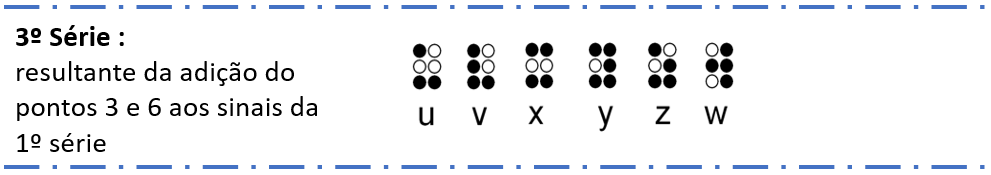
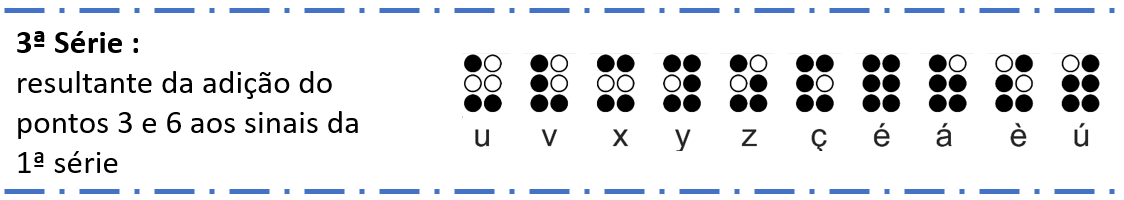
mudanças no texto do padrão braille e sistema e mudança do botão recuperar senha

diff --git a/menuBraille.html b/menuBraille.html
@@ -3,18 +3,15 @@
 <head>
     <meta charset="UTF-8">
     <meta name="viewport" content="width=device-width, initial-scale=1.0">
-    <meta name="description" content="Página explicativa do conteudo Braille">
-    <link rel="stylesheet" href="../css/index.css"> <!-- Estilo padrão das páginas -->
-    <meta name="Descrição" content="Página Inicial do sistema braile, Introdução ">
-    <link id="css" href="../../css/braille-big.css" rel="stylesheet"> <!-- faz parte da biblioteca Braille -->
-    <script src="../../js/braille-tools.js"></script> <!-- faz parte da biblioteca Braille -->
-    <link rel="icon" type="image/png" href="../css/icon.png"> <!-- Icone da página -->
-    <link rel="stylesheet" href="https://cdn.jsdelivr.net/npm/bootstrap-icons@1.11.3/font/bootstrap-icons.min.css"> 
-
-    <title>Braille</title>
+    <link rel="stylesheet" href="./css/index.css"> <!-- Estilo padrão das páginas -->
+    <meta name="Descrição" content="Menu com os exercicios e uma opção para revisar o contéudo dos padrões braille">
+    <link rel="icon" type="image/png" href="./css/icon.png"> <!-- Icone da página -->
+    <link rel="stylesheet" href="https://cdn.jsdelivr.net/npm/bootstrap-icons@1.11.3/font/bootstrap-icons.min.css">
+    <title>Menu Braille</title>
 </head>
 
 <body>
+
     <nav class="menu-lateral">
 
         <div class="btn-expandir" > 
@@ -26,7 +23,7 @@
         <ul class="lateral">
             <li class="item-menu" id="user-div">
                 <a>
-                    <span class="icon"><img src="../css/icon.png" style="padding-left: 5px;" ></span>
+                    <span class="icon"><img src="./css/icon.png" style="padding-left: 5px;" ></span>
                     <h4 class="txt-link"></h4>
                 </a>
             </li>
@@ -41,31 +38,31 @@
             
             
             <li class="item-menu">
-                <a href="../Exercicios.html">
+                <a href="./Exercicios.html">
                     <span class="icon"><i class="bi bi-list-ol"></i></span>
                     <span class="txt-link">Exercícios</span>
                 </a>
             </li>  
             <li class="item-menu">
-                <a href="../Traducao/Traducao.html">
+                <a href="./Traducao/Traducao.html">
                     <span class="icon"><i class="bi bi-translate"></i></span>
                     <span class="txt-link">Tradução</span>
                 </a>
             </li>
             <li class="item-menu">
-                <a href="../Estudar/Estudar.html">
+                <a href="./Estudar/Estudar.html">
                     <span class="icon"><i class="bi bi-easel-fill"></i></span>
                     <span class="txt-link">Estudar</span>
                 </a>
             </li>
             <li class="item-menu">
-                <a href="../feedback.html">
+                <a href="./feedback.html">
                     <span class="icon"><i class="bi bi-star-fill"></i></span>
                     <span class="txt-link">Feedback</span>
                 </a>
             </li>
             <li class="item-menu">
-                <a onclick="logout()" href="../../index.html">
+                <a onclick="logout()" href="../index.html">
                     <span class="icon"><i class="bi bi-box-arrow-left"></i>
                     </span>
                     <span class="txt-link">Sair</span>
@@ -76,24 +73,35 @@
     </nav>
 
     <div class="container">
+        <h1>Braille</h1>
 
-        <div style="margin-bottom: 20px;" > <h2 >Sistema Braille</h2> </div>
+        <div class="containermenu">
+            <div class="coluna">
+                <a class="botaomenu" href="./SistemaBraille/sistemaBraille.html">
+                    <img class="imagem" src="./css/braille1.png">
+                    Sistema Braille
+                </a>
+                <a class="botaomenu" href="./SistemaBraille/sistemaBraille3.html">
+                    <img class="imagem" src="./css/padraobraille.png">
+                    Padrão Braille 
+                </a>
+                <a class="botaomenu" href="./SistemaBraille/acentosSinaisPontuacoes.html">
+                    <img class="imagem" src="./css/acentosesinais.png">
+                    Acentos, sinais e pontuações
+                </a>
+            </div>
 
-        <p style="text-align: left;"> O sistema braille foi inventado na França por Louis Braille, um jovem cego,
-             reconhecendo-se o ano 1825 como o marco dessa importante conquista para a educação e a integração dos deficientes visuais na sociedade.
-             O sistema de escrita em relevo é composto por 63 sinais formados a partir do conjunto matricial da figura abaixo. Este conjunto de seis pontos chama-se, sinal fundamental.</p>
 
-        <img style="height: 200px;" src="../css/matriz braille.png" alt="Matriz Braille">
-        <p style="font-size: 18px; text-align: center; margin-bottom: 30px;" >Matriz Braille</p>
-
-
-       <a href="./sistemaBraille2.html" class="form-btn2" >Avançar</a>
+            </div>
+        </div>
+        
     </div>
+
 </body>
 
 <script src="https://www.gstatic.com/firebasejs/10.0.0/firebase-app-compat.js"></script> <!-- Biblioteca Firebase -->
 <script src="https://www.gstatic.com/firebasejs/10.0.0/firebase-auth-compat.js"></script><!-- Biblioteca de autenticação Firebase -->
-<script src="../js/firebase.js"> </script> <!-- Script iniciando o Firebase -->
-<script src="../js/login.js"> </script> <!-- Script com as funções de Login -->
+<script src="./js/firebase.js"> </script> <!-- Script iniciando o Firebase -->
+<script src="./js/"> </script> <!-- Script com as funções de Login -->
 
 </html>

diff --git a/SistemaBraille/sistemaBraille2.html b/SistemaBraille/sistemaBraille2.html
@@ -33,7 +33,7 @@
 
 
             <li class="item-menu">
-                <a href="../SistemaBraille/sistemaBraille.html">
+                <a href="../menuBraille.html">
                     <span class="icon"><i class="bi bi-book-fill"></i></span>
                     <span class="txt-link">Braille</span>
                 </a>
@@ -79,28 +79,51 @@
 
         <div style="margin-bottom: 20px;" > <h2>Sistema Braille</h2> </div>
 
-        <p style="text-align: left; margin-bottom: 15px;">O Braille possui formação de letras e números, de forma que a combinação única dos pontos representam caracteres diferentes, sendo assim, possui as seguintes regras de disposição dos sinais: </p>   
+        <p style="text-align: left; margin-bottom: 15px;">O Braille possui formação de letras e números, de forma que a combinação única dos pontos representam caracteres diferentes, 
+            sendo assim, possui as seguintes regras de disposição dos sinais: </p>   
        
         <ul style="margin-bottom: 30px; text-align: left;" > 
             <li class="txt-braille">
-                A 1ª série chamada de série superior, faz o uso dos 4 pontos superiores da cela, 1245, que forma as letras de  A até J;
+                A 1ª série chamada de série superior, faz o uso dos 4 pontos superiores da cela, 1245, que forma as letras de A até J.
             <img src="../css/1-SerieSuperior.png" alt="Sinais Básicos do Sistema Braille">
             </li>
 
             <li class="txt-braille">  
-                A 2ª série conta com a adição do ponto 3 a cada um dos sinais da primeira série, então, é feito o uso da mesma sequência de pontos das letras citadas anteriormente, porém, adicionando o ponto 3 para representar as 10 próximas letras de K até L;
+                A 2ª série conta com a adição do ponto 3 a cada um dos sinais da primeira série, então, é feito o uso da mesma sequência de pontos das letras citadas anteriormente,
+                 porém, adicionando o ponto 3 para representar as 10 próximas letras de K até L.
             <img src="../css/2-Serie.png" alt="Sinais Básicos do Sistema Braille">
             </li>
 
             <li class="txt-braille">
-            A 3ª série,  complementando a 1ª série os pontos 3 e 6 geram as letras de U até Z , entretanto, a letra W não existia na Língua Francesa na época, foi adicionada posteriormente;
+                A 3ª série, complementando a 1ª série os pontos 3 e 6 geram as letras de U até Z.
             <img src="../css/3-serie.png" alt="Sinais Básicos do Sistema Braille">
+            </li>
+
+            <li class="txt-braille">
+                A 4ª série obtém-se juntando o ponto 6 a cada um dos sinais da 1ª série.
+            <img src="../css/4-serie.png" alt="Sinais Básicos do Sistema Braille">
+            </li>
+
+            <li class="txt-braille">
+                A 5ª série é toda formada por sinais inferiores, razão pela qual é denominada série inferior, e reproduz formalmente a 1ª série.
+            <img src="../css/5-serie.png" alt="Sinais Básicos do Sistema Braille">
             </li>
             
             <li class="txt-braille">
-             O sistema utiliza a noção de caracteres de escape, em que os códigos mudam de sentido quando precedidos por outros, como é o caso dos números de 1, 2, ..., 8, 9 e 0 que utilizam a mesma sequência de pontos da 1ª série, mas associado com o símbolo de numeral em Braille  , como mostrado abaixo.
-             <img src="../css/Numeral.png" alt="Sinais Básicos do Sistema Braille">
+                A 6ª série não deriva da 1ª, é formada pelos pontos 3, 4, 5, 6, e consta apenas de seis sinais.
+            <img src="../css/6-serie.png" alt="Sinais Básicos do Sistema Braille">
             </li>
+
+            <li class="txt-braille">
+                A 7ª série, também não se baseia na 1ª, é formada unicamente pelos sete sinais da coluna direita. A sua ordem de sucessão determina-se com o auxílio da mnemônica "ablakba"
+            <img src="../css/7-serie.png" alt="Sinais Básicos do Sistema Braille">
+            </li>
+
+            <li class="txt-braille">
+                Por último temos os numerais.
+            <img src="../css/Numeral.png" alt="Sinais Básicos do Sistema Braille">
+            </li>
+
             
         </ul>
 

diff --git a/SistemaBraille/acentosSinaisPontuacoes.html b/SistemaBraille/acentosSinaisPontuacoes.html
@@ -1,20 +1,20 @@
 <!DOCTYPE html>
 <html lang="pt">
+
 <head>
     <meta charset="UTF-8">
     <meta name="viewport" content="width=device-width, initial-scale=1.0">
-    <meta name="description" content="Página explicativa do conteudo Braille">
+    <meta name="description" content="Página explicativa dos padrões Braille">
     <link rel="stylesheet" href="../css/index.css"> <!-- Estilo padrão das páginas -->
-    <meta name="Descrição" content="Página Inicial do sistema braile, Introdução ">
     <link id="css" href="../../css/braille-big.css" rel="stylesheet"> <!-- faz parte da biblioteca Braille -->
     <script src="../../js/braille-tools.js"></script> <!-- faz parte da biblioteca Braille -->
     <link rel="icon" type="image/png" href="../css/icon.png"> <!-- Icone da página -->
     <link rel="stylesheet" href="https://cdn.jsdelivr.net/npm/bootstrap-icons@1.11.3/font/bootstrap-icons.min.css"> 
-
-    <title>Braille</title>
+    <title>Acentos, sinais e pontuações</title>
 </head>
 
 <body>
+
     <nav class="menu-lateral">
 
         <div class="btn-expandir" > 
@@ -77,18 +77,22 @@
 
     <div class="container">
 
-        <div style="margin-bottom: 20px;" > <h2 >Sistema Braille</h2> </div>
+        <div style="margin-bottom: 20px;" > <h2>Acentos, sinais e pontuações</h2> </div>
+        <ul style="margin-bottom: 30px; text-align: left;" > 
 
-        <p style="text-align: left;"> O sistema braille foi inventado na França por Louis Braille, um jovem cego,
-             reconhecendo-se o ano 1825 como o marco dessa importante conquista para a educação e a integração dos deficientes visuais na sociedade.
-             O sistema de escrita em relevo é composto por 63 sinais formados a partir do conjunto matricial da figura abaixo. Este conjunto de seis pontos chama-se, sinal fundamental.</p>
+            <img src="../css/acentos_sinais_e_pontuacoes.png" alt="imagem ">
+            </li>
 
-        <img style="height: 200px;" src="../css/matriz braille.png" alt="Matriz Braille">
-        <p style="font-size: 18px; text-align: center; margin-bottom: 30px;" >Matriz Braille</p>
+        
+            
+        </ul>
 
-
-       <a href="./sistemaBraille2.html" class="form-btn2" >Avançar</a>
+        <a class="form-btn2" href="../SistemaBraille/sistemaBraille3.html" >Voltar</a>
+        <a href="../padrao1/padrao1.html" class="form-btn2" >Exercício</a>
+       
     </div>
+
+
 </body>
 
 <script src="https://www.gstatic.com/firebasejs/10.0.0/firebase-app-compat.js"></script> <!-- Biblioteca Firebase -->

diff --git a/SistemaBraille/sistemaBraille3.html b/SistemaBraille/sistemaBraille3.html
@@ -33,7 +33,7 @@
 
 
             <li class="item-menu">
-                <a href="../SistemaBraille/sistemaBraille.html">
+                <a href="../menuBraille.html">
                     <span class="icon"><i class="bi bi-book-fill"></i></span>
                     <span class="txt-link">Braille</span>
                 </a>
@@ -86,7 +86,7 @@
 
         <ul style="margin-bottom: 30px; text-align: left;" > 
             <li class="txt-braille">
-              No 1º padrão temos letras que estão agrupadas devido à sua semelhança de espelhamento ao longo do eixo y, das quais temos D F, E I, H J, R W, e Y Ç.
+                No 1º padrão as letras estão agrupadas devido à sua semelhança de espelhamento no eixo y, que são: D F, E I, H J, R W, e Y Ç.
             <img src="../css/1padrao.png" alt="imagem ilustrando o padrão 1: Similaridade de caracteres por espelhamento no eixo y, D F, E I, H J, R W, e Y Ç.">
             </li>
 
@@ -100,12 +100,18 @@
                 cada caractere complementa e ajuda a lembrar do próximo.
             <img src="../css/3padrao.png" alt="imagem ilustrando o padrão 3: Similaridade de caracteres por complementaridade: A B K L, C G X, e, O S T Q.">
             </li>
+
+            <li class="txt-braille">
+                O Numeral segue a mesma lógica de organização do padrão 1, com os números organizados por possuírem similaridade de espelhamento no eixo 𝑦, 
+                tendo os números 1, 2, 3, 4, 5, 6, 7, 8, 9 e 0. Cada número deve ser associado com o símbolo de numeral em Braille representado abaixo. 
+            <img src="../css/Padraonumeral.png" alt="imagem ilustrando o padrão 3: Similaridade de caracteres por complementaridade: A B K L, C G X, e, O S T Q.">
+            </li>
             
             
         </ul>
 
         <a class="form-btn2" href="../SistemaBraille/sistemaBraille2.html" >Voltar</a>
-        <a href="../padrao1/padrao1.html" class="form-btn2" >Exercício</a>
+        <a href="../SistemaBraille/acentosSinaisPontuacoes.html" class="form-btn2" >Próximo</a>
        
     </div>
 

diff --git a/index.html b/index.html
@@ -24,18 +24,20 @@
             <input type="password" name="password" id="password" placeholder="Senha" onchange="onChangePassword()"/>
             <div class="error" id="password-required-error">Senha é obrigatória</div>
         </div>
-        <div>
-            <button type="button" class="clear" id="recover-password-button" onclick="recoverPassword()" >Recuperar senha</button>
-        </div>
+
         <div>
             <button type="button" class="form-btn2" id="login-button"  onclick="login()">Entrar</button>
         </div>
         <div>
             <button type="button" class="form-btn2" onclick="register()">Registrar</button>
         </div>
-        
+
     </form>
     <button onclick="login2()" class="login-btn" >Login com google</button>
+
+    <div>
+        <button type="button" class="clear" id="recover-password-button" onclick="recoverPassword()" >Recuperar senha</button>
+    </div>
 </div>
 </body>
 

diff --git a/js/login.js b/js/login.js
@@ -14,7 +14,7 @@ function login2(){
     const provider = new firebase.auth.GoogleAuthProvider();
     firebase.auth().signInWithPopup(provider)
         .then((result) => {
-            window.location.href = "./SistemaBraille/sistemaBraille.html";
+            window.location.href = "./menuBraille.html";
             const user = result.user;
         })
         .catch((error) => {

diff --git a/Estudar/Estudar.html b/Estudar/Estudar.html
@@ -30,7 +30,7 @@
 
 
             <li class="item-menu">
-                <a href="../SistemaBraille/sistemaBraille.html">
+                <a href="../menuBraille.html">
                     <span class="icon"><i class="bi bi-book-fill"></i></span>
                     <span class="txt-link">Braille</span>
                 </a>

diff --git a/Estudar/alfabeto.html b/Estudar/alfabeto.html
@@ -35,7 +35,7 @@
 
 
             <li class="item-menu">
-                <a href="../SistemaBraille/sistemaBraille.html">
+                <a href="../menuBraille.html">
                     <span class="icon"><i class="bi bi-book-fill"></i></span>
                     <span class="txt-link">Braille</span>
                 </a>

diff --git a/Estudar/expressoes.html b/Estudar/expressoes.html
@@ -34,7 +34,7 @@
 
 
             <li class="item-menu">
-                <a href="../SistemaBraille/sistemaBraille.html">
+                <a href="../menuBraille.html">
                     <span class="icon"><i class="bi bi-book-fill"></i></span>
                     <span class="txt-link">Braille</span>
                 </a>

diff --git a/Estudar/numeros.html b/Estudar/numeros.html
@@ -34,7 +34,7 @@
 
 
             <li class="item-menu">
-                <a href="../SistemaBraille/sistemaBraille.html">
+                <a href="../menuBraille.html">
                     <span class="icon"><i class="bi bi-book-fill"></i></span>
                     <span class="txt-link">Braille</span>
                 </a>

diff --git a/Estudar/palavras.html b/Estudar/palavras.html
@@ -34,7 +34,7 @@
 
 
             <li class="item-menu">
-                <a href="../SistemaBraille/sistemaBraille.html">
+                <a href="../menuBraille.html">
                     <span class="icon"><i class="bi bi-book-fill"></i></span>
                     <span class="txt-link">Braille</span>
                 </a>

diff --git a/EstudarBraille/palavrasdificil.html b/EstudarBraille/palavrasdificil.html
@@ -49,7 +49,7 @@
 
 
             <li class="item-menu">
-                <a href="../SistemaBraille/sistemaBraille.html">
+                <a href="../menuBraille.html">
                     <span class="icon"><i class="bi bi-book-fill"></i></span>
                     <span class="txt-link">Braille</span>
                 </a>
